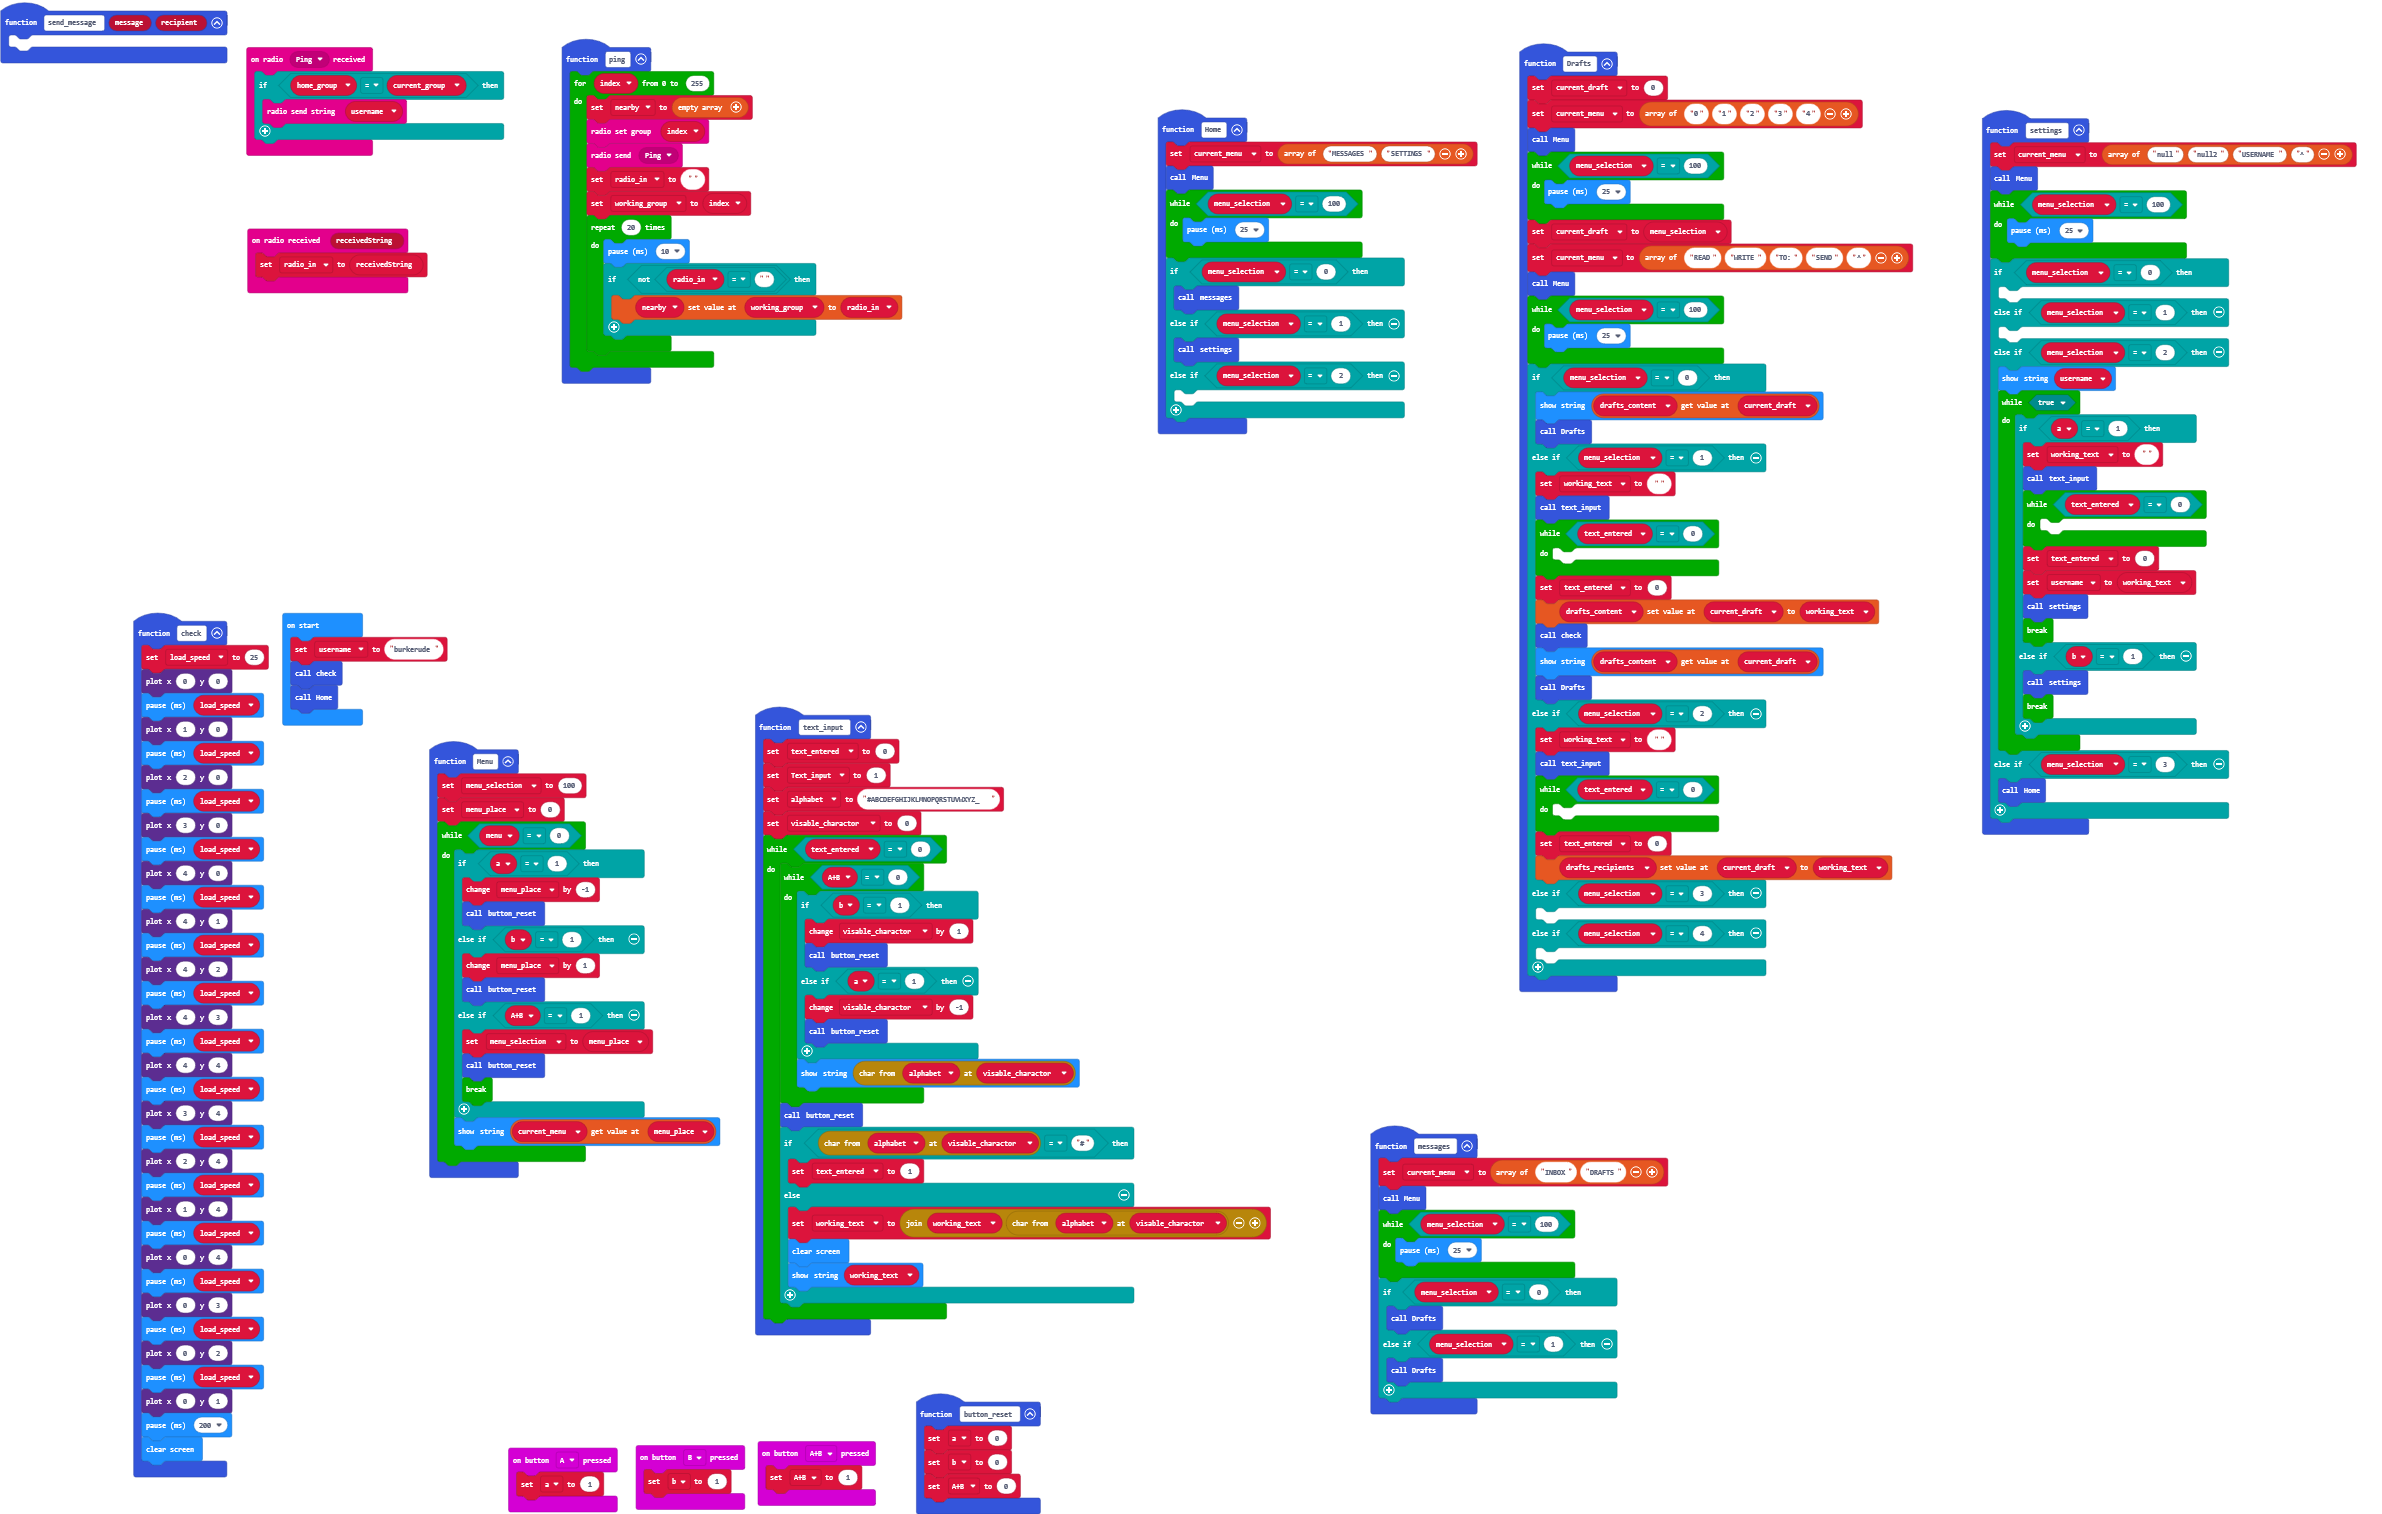
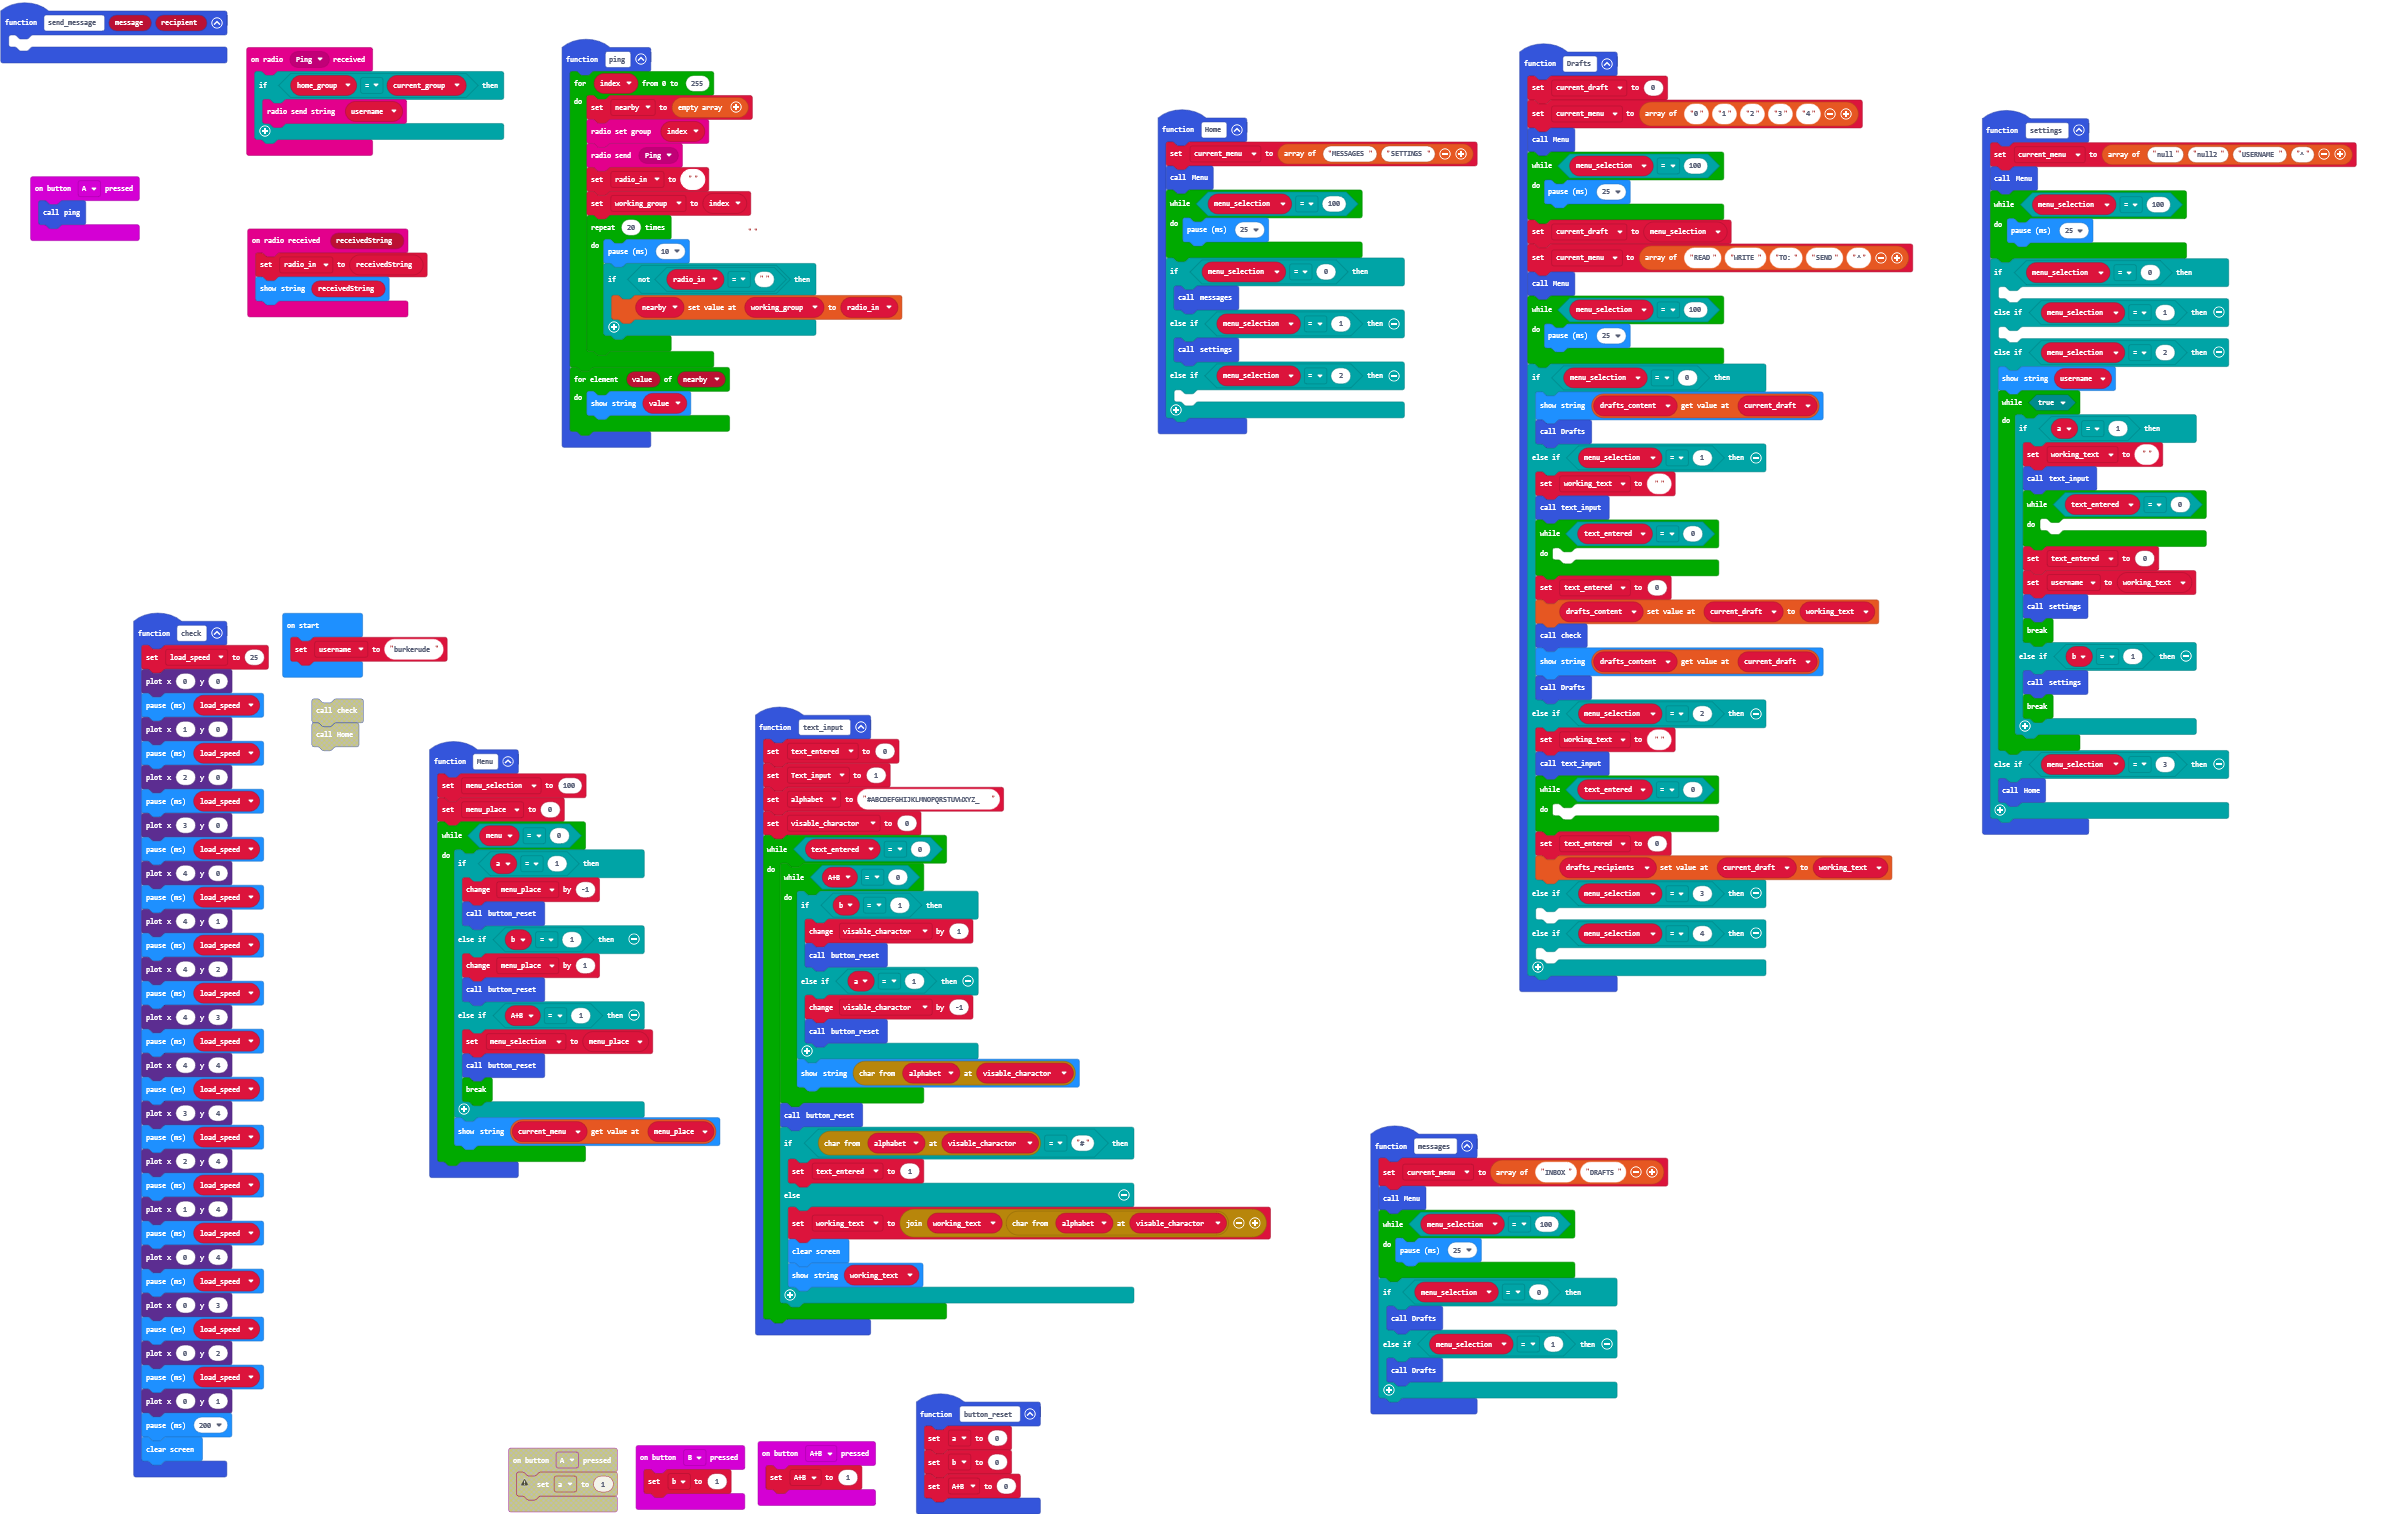
Update main.blocks, main.ts

diff --git a/main.ts b/main.ts
@@ -52,6 +52,9 @@ function ping () {
             }
         }
     }
+    for (let value of nearby) {
+        basic.showString("" + (value))
+    }
 }
 function button_reset () {
     a = 0
@@ -62,7 +65,7 @@ function send_message (message: string, recipient: string) {
 	
 }
 input.onButtonPressed(Button.A, function () {
-    a = 1
+    ping()
 })
 function Home () {
     current_menu = ["MESSAGES", "SETTINGS"]
@@ -165,6 +168,7 @@ input.onButtonPressed(Button.AB, function () {
 })
 radio.onReceivedString(function (receivedString) {
     radio_in = receivedString
+    basic.showString(receivedString)
 })
 function messages () {
     current_menu = ["INBOX", "DRAFTS"]
@@ -244,5 +248,3 @@ let nearby: string[] = []
 let load_speed = 0
 let username = ""
 username = "burkerude"
-check()
-Home()
